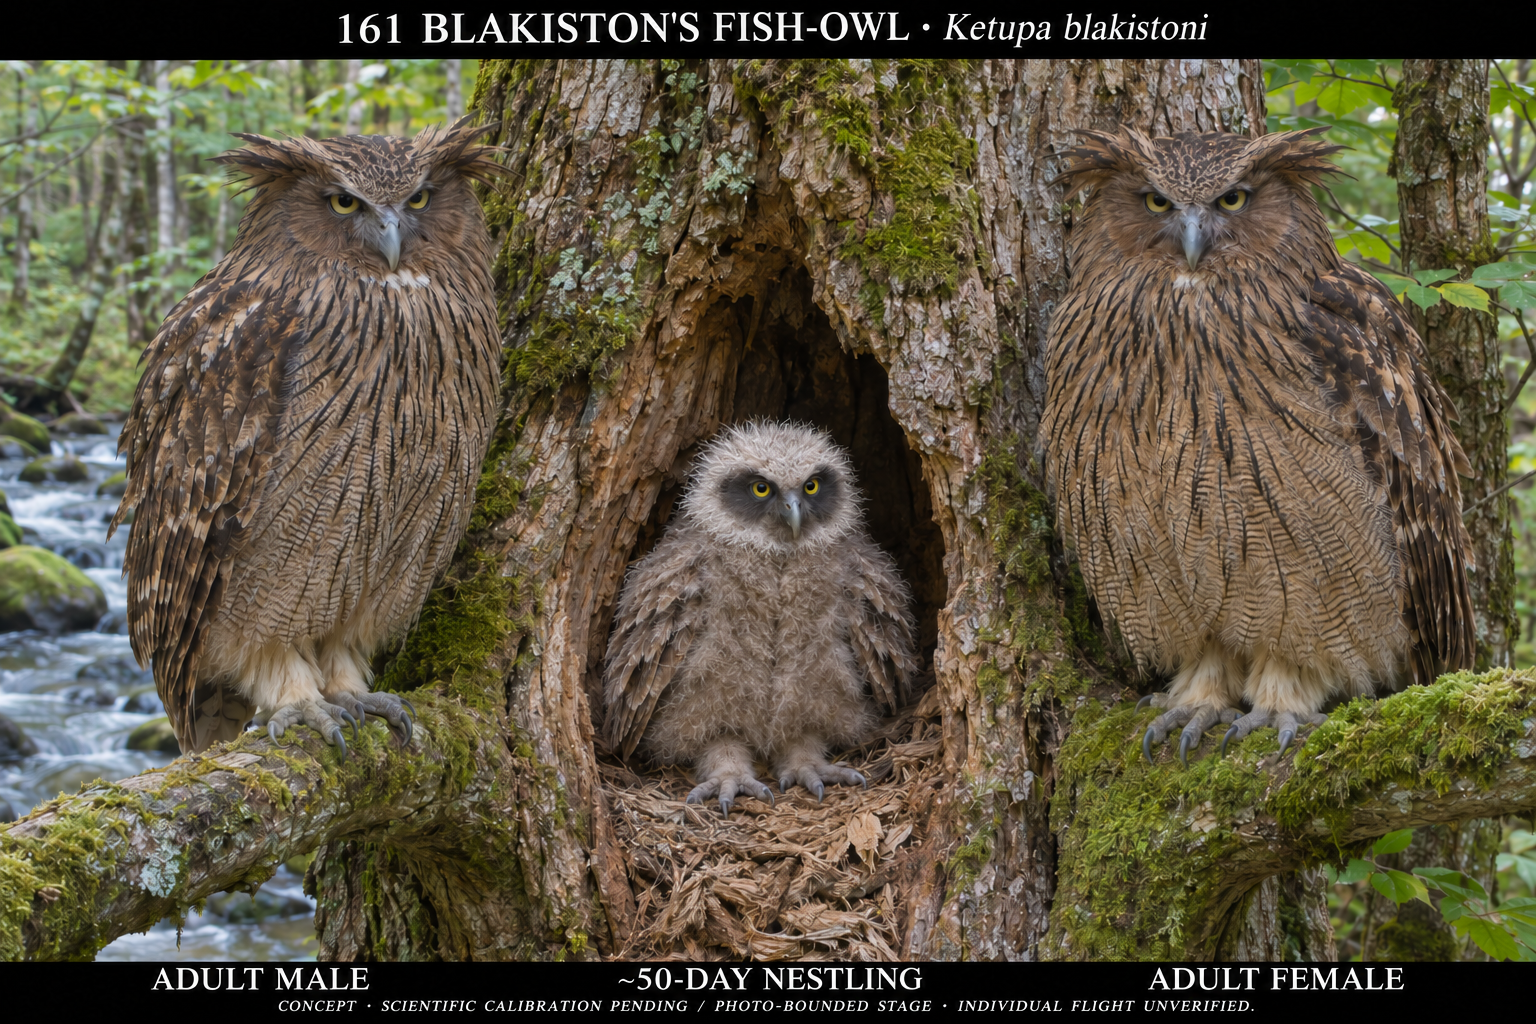
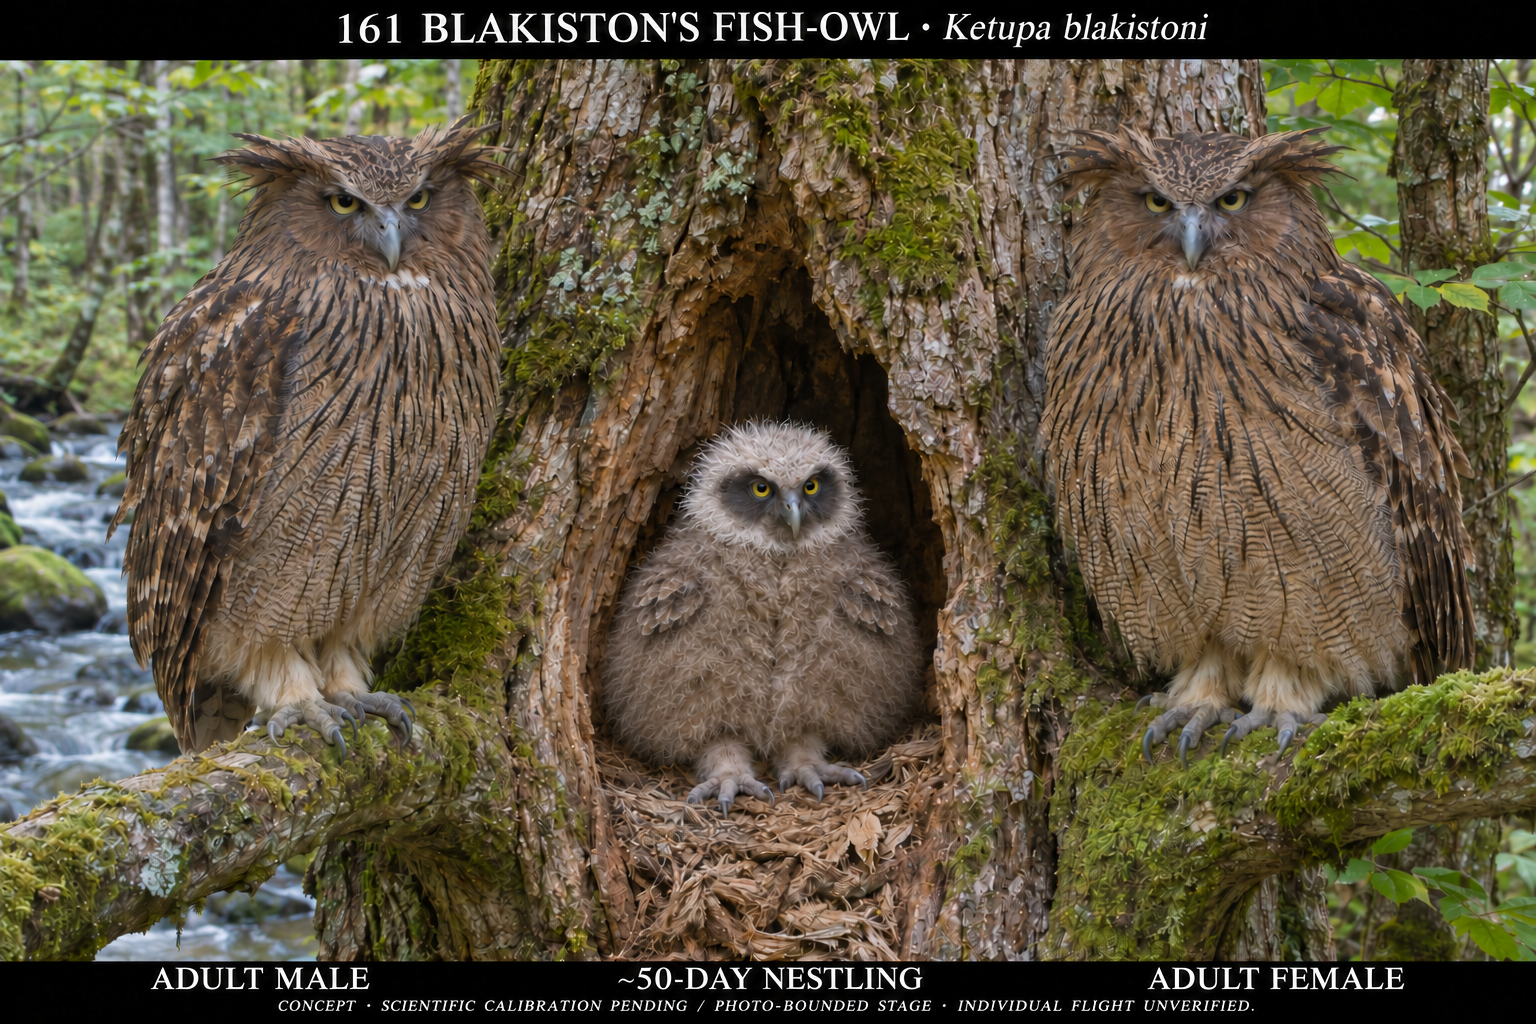
owl-pet: persist generated 161-ketupa-blakistoni-v5

diff --git a/owl-pet/production/runs/20261124T0831Z-cycle5.md b/owl-pet/production/runs/20261124T0831Z-cycle5.md
@@ -4,3 +4,8 @@ STARTED 2026-11-24T08:49:41.110Z: freshmainledgerverified priorcycle, no otherac
 RESEARCH_READY 2026-11-24T08:53:02.141Z: 161-ketupa-blakistoni-v5; sourcecounts{"new":0,"reused":2,"corrected":3}.
 
[1 lines of base64/hex data omitted]
+
+EDIT 2026-11-24T08:54:59.359Z → 2026-11-24T08:55:44.297Z: firstoutputlonghardjuvenileremigestipsintroduced. Initialpreserved production/artifacts/20261124T0831Z/161-initial.png commit226d88aeb96045be5e379b162319eeb1046623bc. Fulltargetedprompt:
+Edit ONLY BOTH FOLDED WINGS OF CENTRE ~50DAYNESTLING inthisexisting161plate. Thefirsteditintroducedtoo-longlayeredadultremigestips hangingnearthefeet; theactualcaptionedPhoto2showscompactroundedshoulderfoldsunderdensemesoptile. Shortenvisiblewingextent, tuckthelowerlongfeathertips completely beneath fluffy grey-brown flankdown; keepsmallOVALgrey-brownshouldercovertpatcheswithroundedpalerfeatheredgesaroundupperflanks, notpurewinglessnatalbuds. Wingends shouldbeconcealedhighabovethefeet. Keep palegrey-whitecrown/outerface, darkeyemask/yelloweyes/greybluebill, smoke-brownbody, hiddenjuveniletail, cavityfloor/belly/bothfeetfullysupported. Alladultbirds/plumage/poses/labels/footers/forestUNCHANGED. No spreadwings, noextrafeet, nonewfeatherchronologyclaim. Same1536x1024style.
+
[1 lines of base64/hex data omitted]
